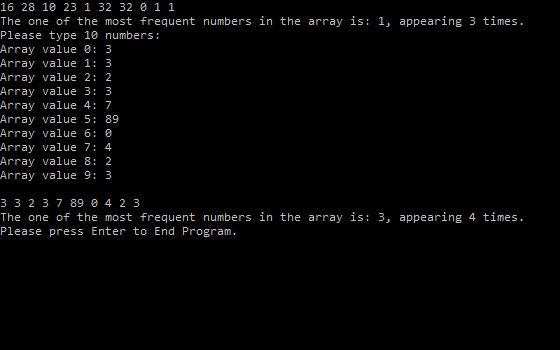
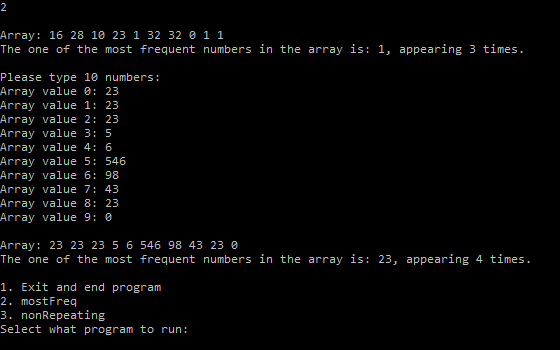
Updated Output
changes the text for the output, and updated the pictures in the output folder.

diff --git a/C++Practice/C++Practice/mostFreq.cpp b/C++Practice/C++Practice/mostFreq.cpp
@@ -1,7 +1,7 @@
 /*
 John Vogel
 Start: 3/26/2018
-Last Modified: 4/19/2018
+Last Modified: 4/24/2018
 Prompt: Find one of the most frequent integers in an array. 
 */
 #ifndef MOSTFREQ_CPP
@@ -41,29 +41,30 @@ void mostFreq::Freq(int temp[], int size) {
 		}
 
 	}
-	cout << "The one of the most frequent numbers in the array is: " << mostF << ", appearing " << cnt2 << " times.\n";
+	cout << "The one of the most frequent numbers in the array is: " << mostF << ", appearing " << cnt2 << " times." << endl;
 	return;
 }
 
 
 void mostFreq::displayArr(int temp[], int size) {
 
+	cout << "Array: ";
 	for (int i = 0; i< size; i++) {
 		cout << temp[i] << " ";
 	}
-	cout << "\n";
+	cout << endl;
 
 	return;
 }
 
 void mostFreq::fillArr(int temp[], int size) {
 
-	cout << "Please type " << size << " numbers:\n";
+	cout << endl << "Please type " << size << " numbers:\n";
 	for (int i = 0; i < size; i++) {
 		cout << "Array value " << i << ": ";
 		cin >> temp[i];
 	}
-	cout << "\n";
+	cout << endl;
 	return;
 }
 

diff --git a/C++Practice/C++Practice/nonRepeating.cpp b/C++Practice/C++Practice/nonRepeating.cpp
@@ -28,7 +28,7 @@ void nonRepeating::Repeat(string temp) {
 		curr = temp[i];
 
 		if (prev != curr) {
-			cout << "The first nonrepeated character is " << curr << " at " << i+1 << " location." << endl; //adding +1 as we are starting i at 1 instead of 0.
+			cout << "The first nonrepeated character is: " << curr << ", at position " << i+1 << "." << endl; //adding +1 as we are starting i at 1 instead of 0.
 			return;
 		}
 		else
@@ -41,7 +41,7 @@ void nonRepeating::Repeat(string temp) {
 
 void nonRepeating::processRepeat(){
 
-	cout << myStr << endl;
+	cout << "String: " << myStr << endl;
 	Repeat(myStr);
 
 	return; 

diff --git a/C++Practice/C++Practice/main.cpp b/C++Practice/C++Practice/main.cpp
@@ -18,7 +18,8 @@ int main() {
 	do {
 		cout << "\n1. Exit and end program\n2. mostFreq\n3. nonRepeating\nSelect what program to run:" << endl;
 		cin >> choice;
-	
+		cout << endl; 
+
 		switch (choice) {
 		case 1: 
 			cout << "Goodbye!" << endl;
